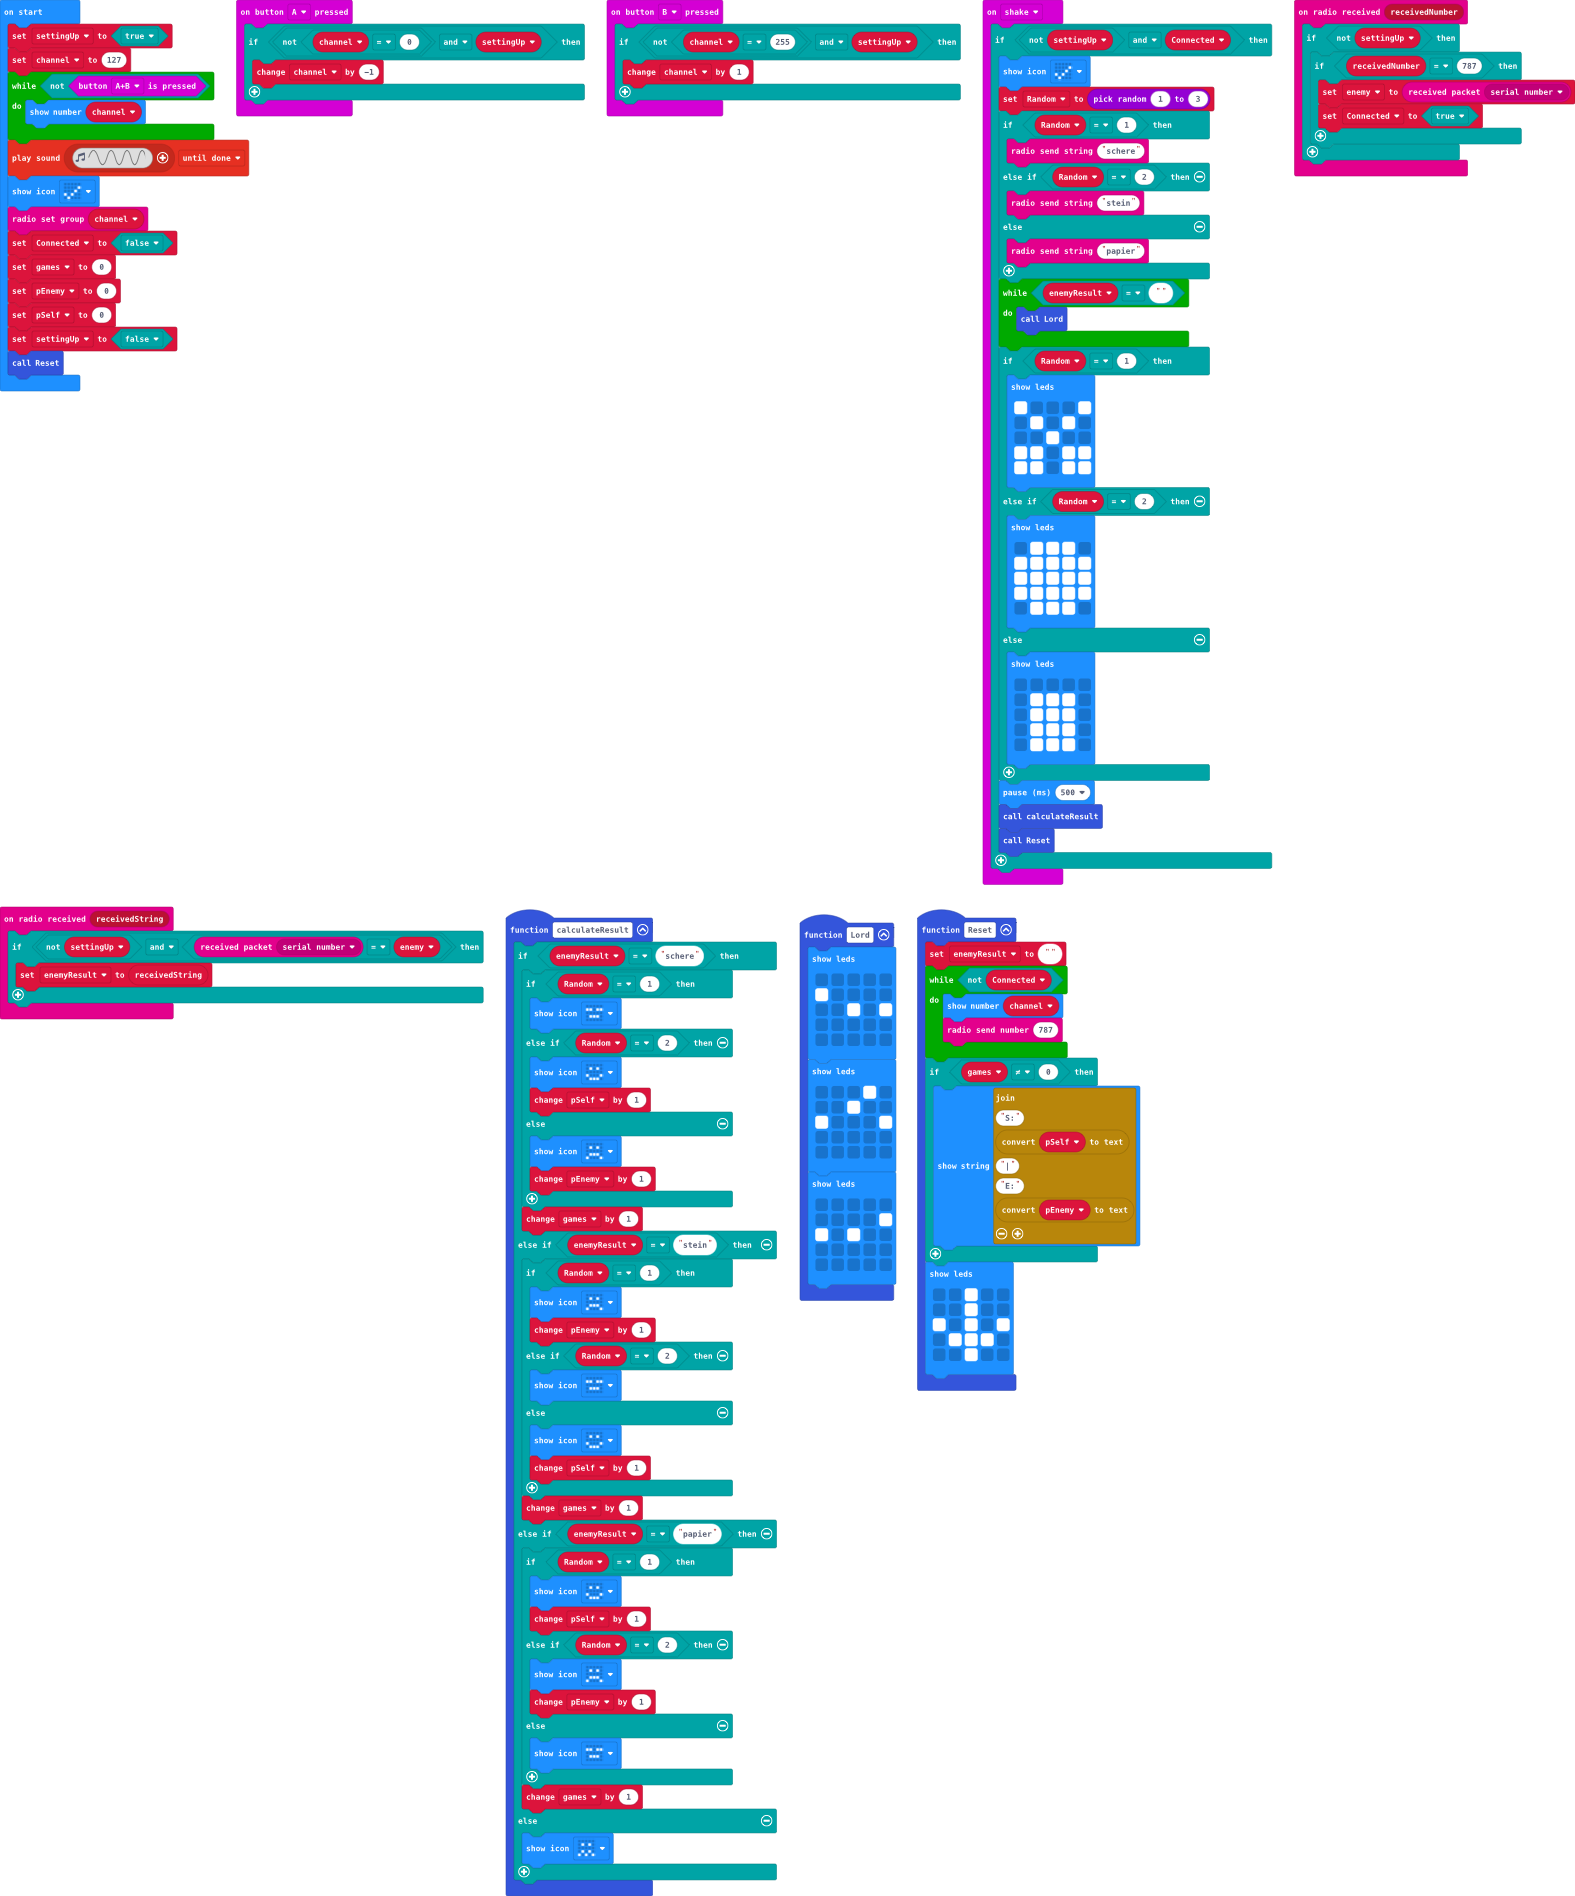
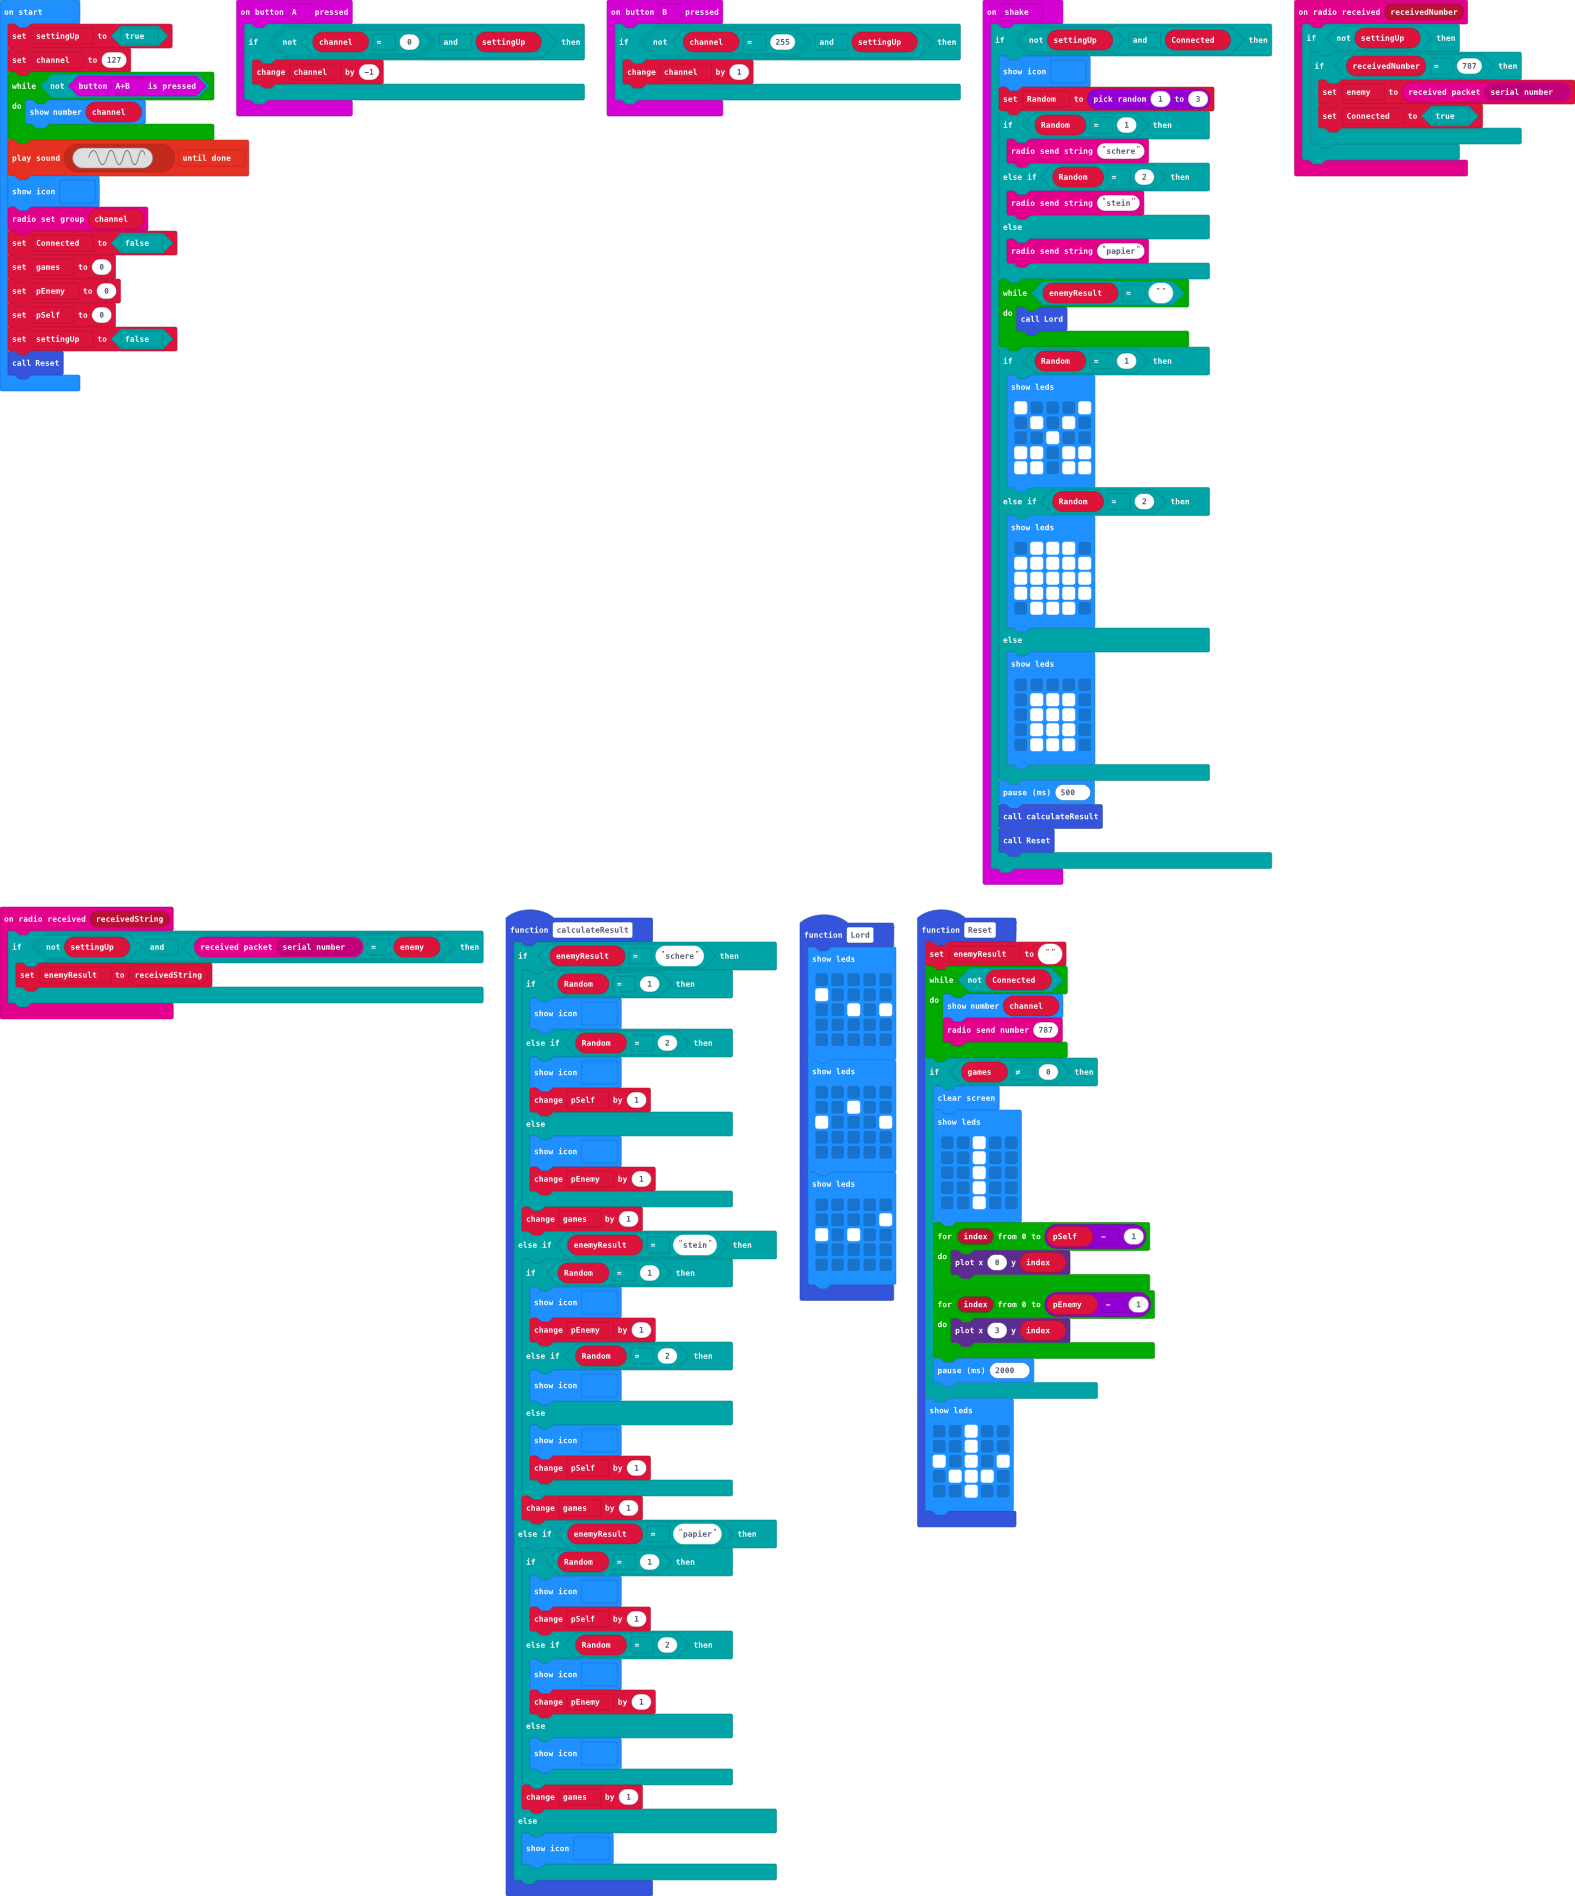
Update main.blocks, main.ts

Changed region(s): [[0.56, 0.5601, 0.7467, 0.8091]]

diff --git a/main.ts b/main.ts
@@ -112,7 +112,7 @@ function Lord () {
         . . . . .
         `)
     basic.showLeds(`
-        . . . # .
+        . . . . .
         . . # . .
         # . . . #
         . . . . .
@@ -133,7 +133,21 @@ function Reset () {
         radio.sendNumber(787)
     }
     if (games != 0) {
-        basic.showString("S:" + convertToText(pSelf) + "|" + "E:" + convertToText(pEnemy))
+        basic.clearScreen()
+        basic.showLeds(`
+            . . # . .
+            . . # . .
+            . . # . .
+            . . # . .
+            . . # . .
+            `)
+        for (let index = 0; index <= pSelf - 1; index++) {
+            led.plot(0, index)
+        }
+        for (let index = 0; index <= pEnemy - 1; index++) {
+            led.plot(3, index)
+        }
+        basic.pause(2000)
     }
     basic.showLeds(`
         . . # . .
